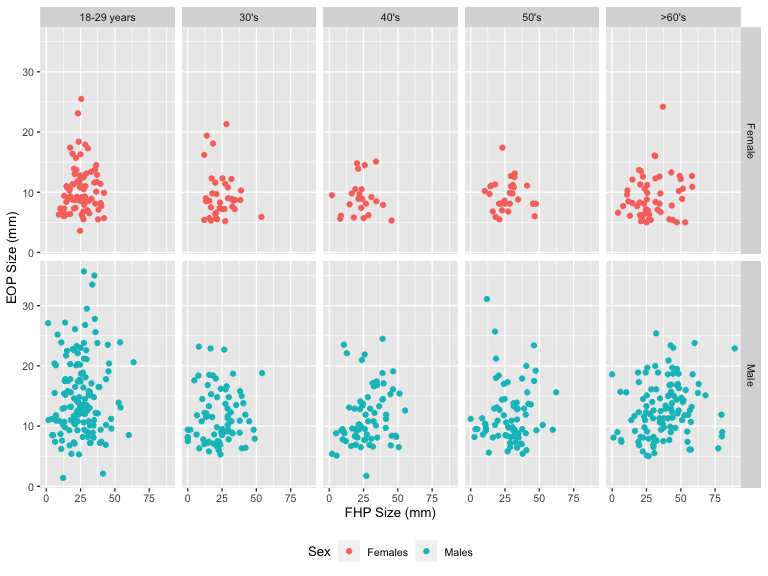
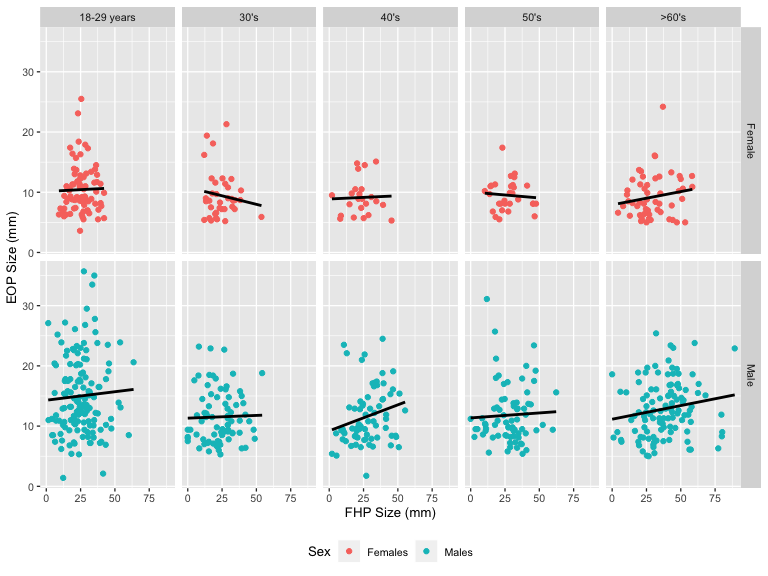
Update the plots in question 2.

diff --git a/p8105_mtp_jc5314.md b/p8105_mtp_jc5314.md
@@ -231,6 +231,10 @@ fhp_eop_plot =
   filter(eop_size_mm != 0) %>% 
   ggplot(aes(x = fhp_size_mm, y = eop_size_mm, color = sex)) +
   geom_point() +
+  geom_smooth(
+    method = "lm", 
+    color = 'black',
+    se = FALSE) +
   facet_grid(
     sex ~ age_group, 
     labeller = as_labeller(c('0' = 'Female', '1' = 'Male', '2' = '18-29 years', 
